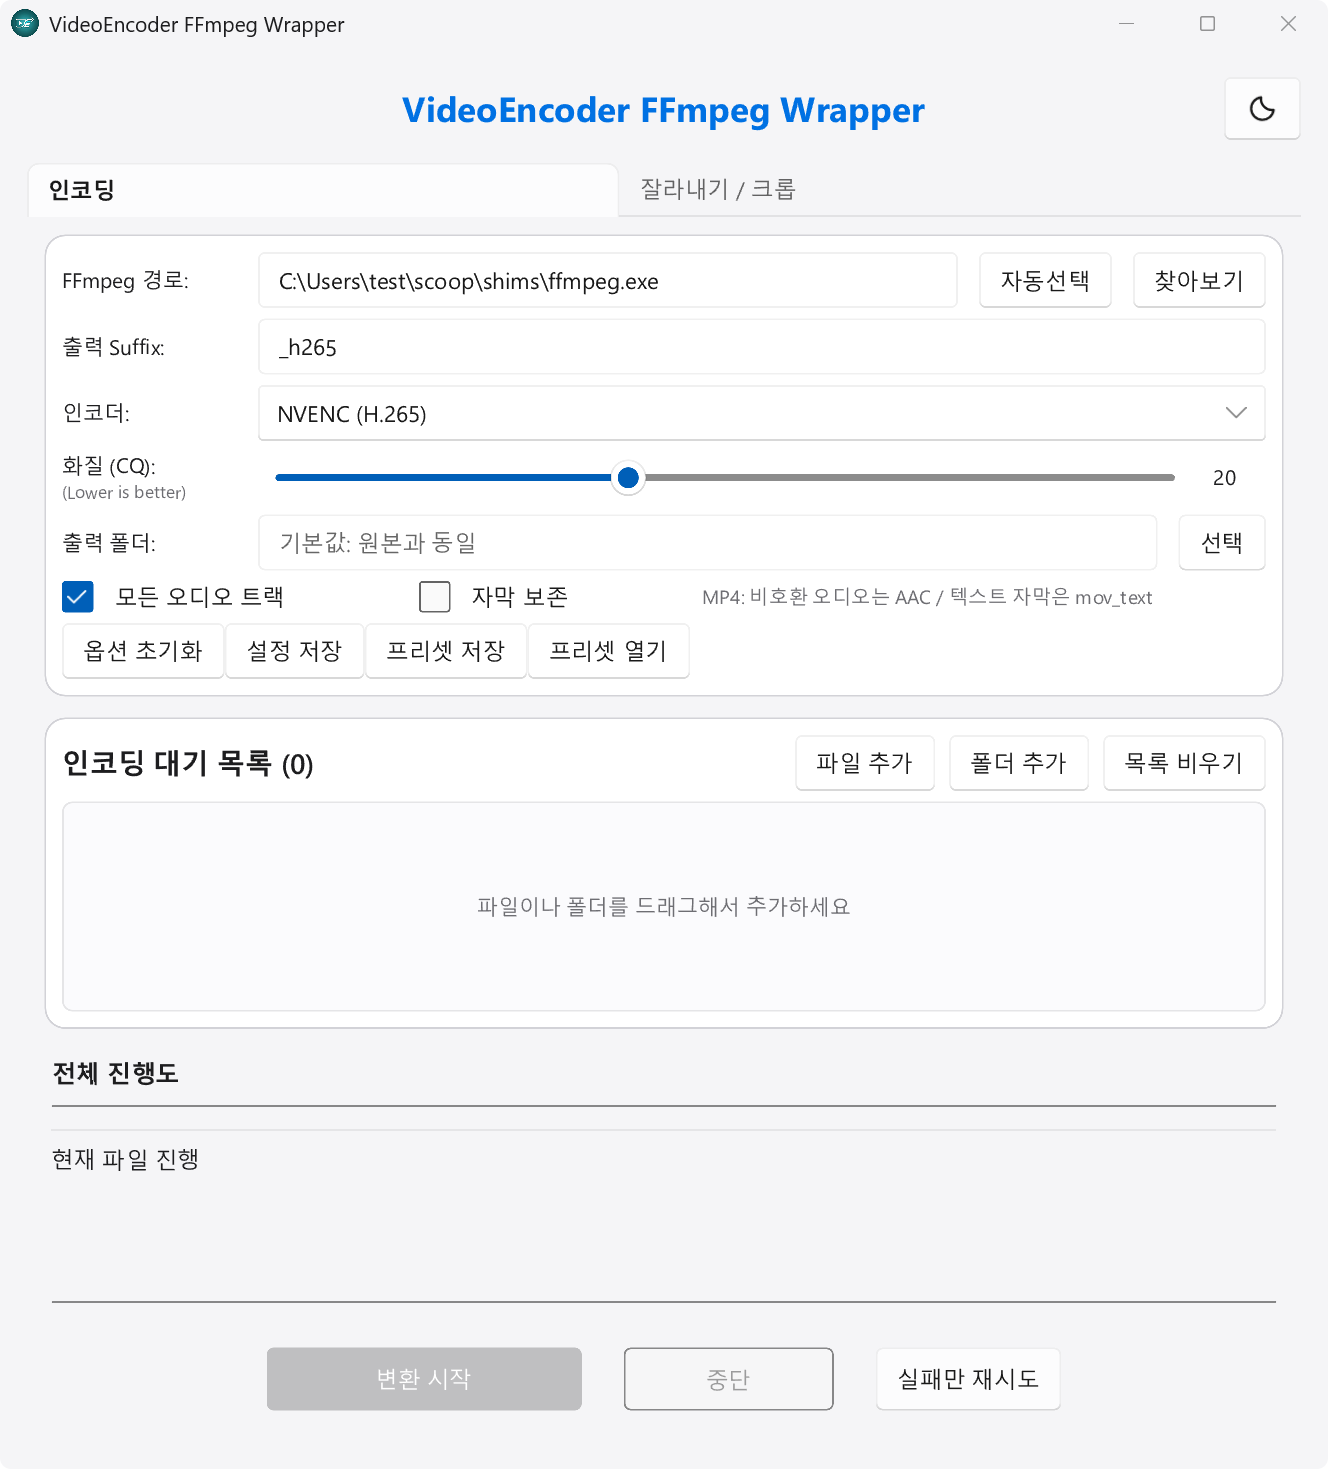
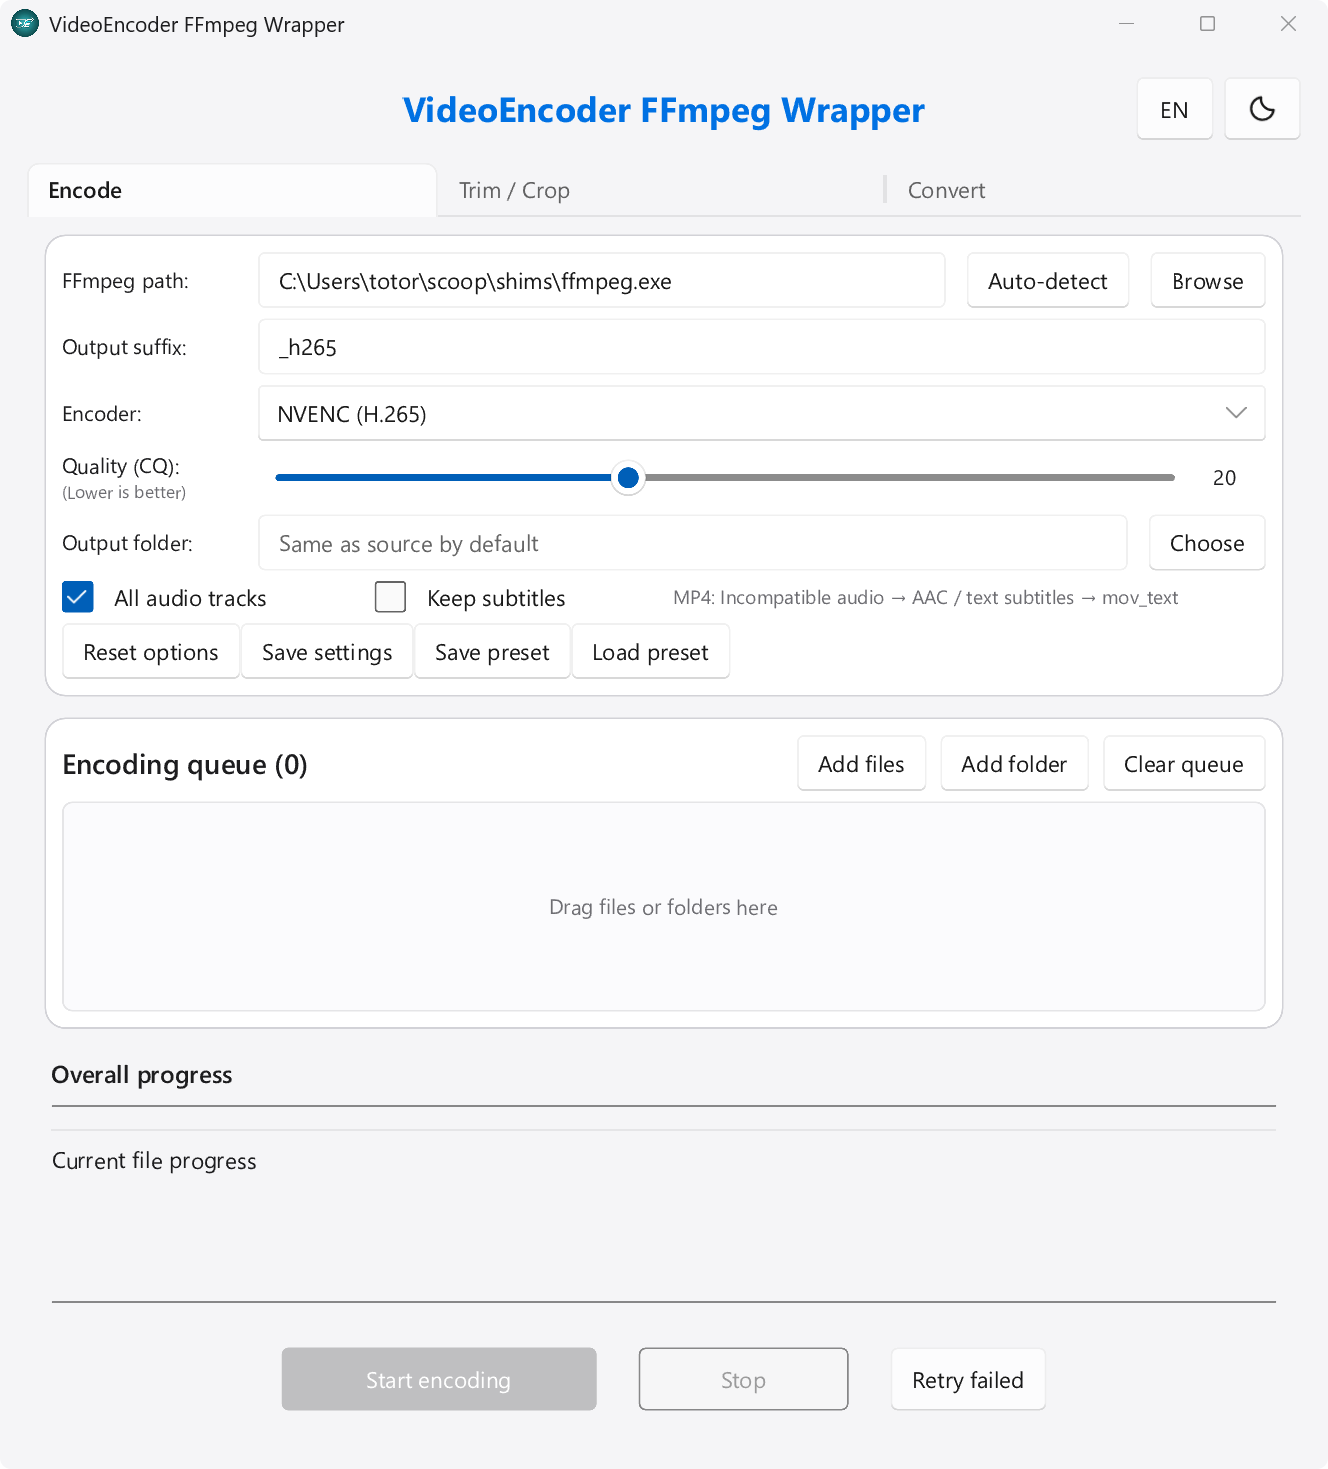
md

diff --git a/README.md b/README.md
@@ -7,6 +7,7 @@ A lightweight, high-performance video encoding GUI built with **Rust** and **Sli
 ## Key Features
 
 -   **Light / Dark Theme**: Toggle at the right of the title; the native title bar follows the theme.
+-   **Multilingual UI (Korean / English)**: The **KO / EN** button left of the theme toggle switches the whole interface instantly. The first launch follows the Windows display language.
 -   **Native Windows Drag & Drop**: Drop files and folders anywhere on the window.
 -   **Selectable Encoder**: NVIDIA NVENC (H.265, default) or x265 (CPU). The quality slider switches between CQ and CRF automatically, and each encoder keeps its own value.
 -   **Batch Queue**: Add files or folders, see the source resolution and playback duration under each file, reorder with ↑/↓, remove single items, clear the list, and retry only the failed jobs.
@@ -63,6 +64,7 @@ Download the latest build from the [Releases Page](https://github.com/kirinonaka
 -   Settings are loaded at startup and saved automatically on exit to `%APPDATA%\VideoEncoder\settings.json` (`~/.config/VideoEncoder/settings.json` on other platforms).
 -   **Save Settings** writes the current state immediately.
 -   **Export / Import Preset** stores every option (FFmpeg path, encoder, quality, suffix, output folder, track options, cut mode, theme) in a JSON file.
+-   **Language** (Korean / English) is saved with the settings file and restored at launch. Exported presets do not include it, so importing a preset never changes the current language.
 -   Older or partial JSON presets remain readable; missing values fall back to defaults.
 
 ## Video Editor (Trim / Cut / Crop)
